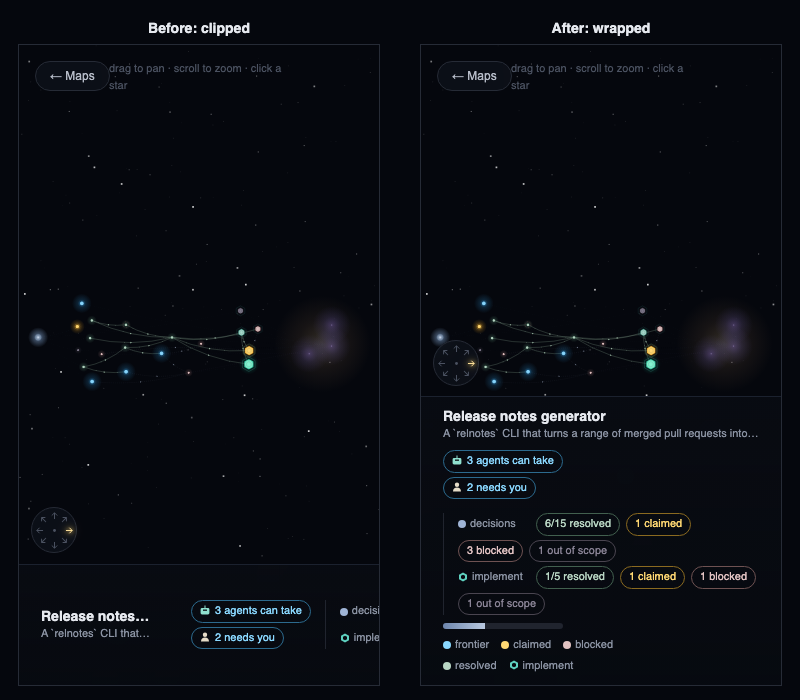
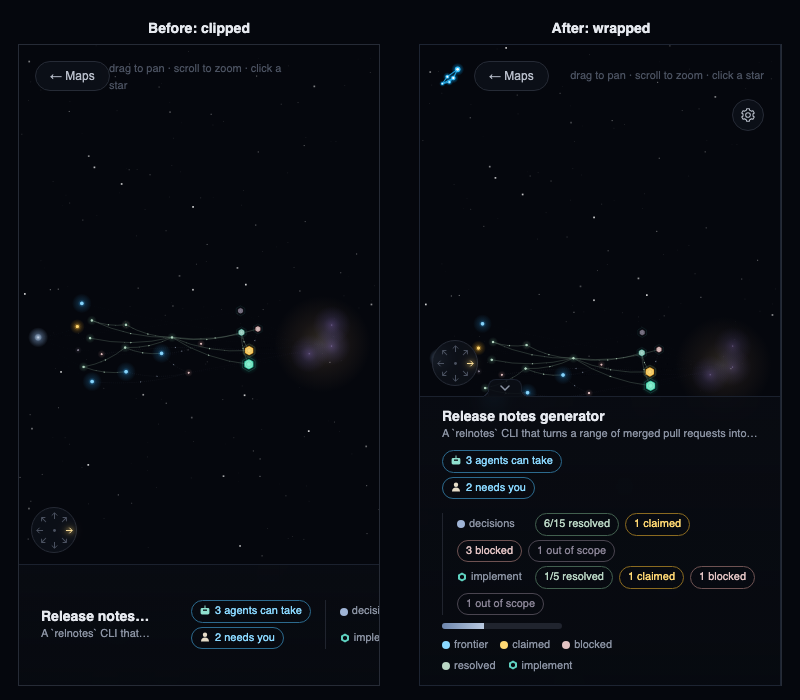
feat(viewer): keep the status bar fold tab next to the compass (v0.15.1) (#58)
Closes #57

diff --git a/cmd/wayfinder-maps/web/style.css b/cmd/wayfinder-maps/web/style.css
@@ -14,21 +14,23 @@ html,body{margin:0;height:100%;overflow:hidden;background:#05070d;
   transition:transform .24s cubic-bezier(.2,.7,.2,1),opacity .24s}
 body.panelopen #hud{transform:translateY(105%);opacity:0;pointer-events:none}
 #hud.folded>:not(.htitle):not(.hudfold){display:none}
-#hud .hudfold{position:absolute;right:16px;top:0;transform:translateY(-100%);width:34px;height:18px;padding:0;
+#hud .hudfold{position:absolute;left:68px;top:0;transform:translateY(-100%);width:34px;height:18px;padding:0;
   display:flex;align-items:center;justify-content:center;cursor:pointer;color:#8b93a3;
   background:rgba(11,14,21,.85);border:1px solid #1b212e;border-bottom:0;border-radius:8px 8px 0 0}
+#hud .hudfold::before,#hud .hudfold::after{content:"";position:absolute;bottom:0;width:8px;height:8px;pointer-events:none}
+#hud .hudfold::before{left:-8px;background:radial-gradient(circle at 0 0,transparent 7px,#1b212e 7px,#1b212e 8px,rgba(11,14,21,.85) 8px)}
+#hud .hudfold::after{right:-8px;background:radial-gradient(circle at 100% 0,transparent 7px,#1b212e 7px,#1b212e 8px,rgba(11,14,21,.85) 8px)}
 #hud .hudfold:hover{color:#e6e9ef}
 #hud .hudfold svg{width:10px;height:6px;fill:none;stroke:currentColor;stroke-width:1.5;stroke-linecap:round;stroke-linejoin:round;transition:transform .2s}
 #hud.folded .hudfold svg{transform:rotate(180deg)}
-/* Folded: the bar becomes a bottom-left corner holding the compass, the title and the toggle. */
+/* The toggle is a tab on the bar's top edge, right of the compass, in both states. Folded: the bar becomes a bottom-left corner holding the compass and the title. */
 body.hudfolded #hud{right:auto;max-width:min(340px,calc(100vw - 24px));min-height:62px;flex-wrap:nowrap;gap:10px;
-  padding:8px 12px 8px 70px;border-right:1px solid #1b212e;border-radius:0 14px 0 0;
+  padding:8px 12px 8px 66px;border-right:1px solid #1b212e;border-radius:0 14px 0 0;
   background:rgba(9,12,19,.82)}
 body.hudfolded #hud .htitle{flex:0 1 auto;min-width:0}
 body.hudfolded #hud .dest{display:none}
 #hud .tshort,body.hudfolded #hud .tfull{display:none}
 body.hudfolded #hud .tshort{display:inline}
-body.hudfolded #hud .hudfold{position:static;transform:none;flex:none;width:24px;height:24px;border:1px solid #1b212e;border-radius:50%}
 body.hudfolded #compass{bottom:8px}
 #hud .htitle{min-width:110px;flex:1 1 180px}
 #hud h1{font-size:14px;font-weight:600;margin:0;line-height:1.25;

diff --git a/docs/features/narrow-screens.md b/docs/features/narrow-screens.md
@@ -10,14 +10,15 @@ The bottom status bar wraps onto extra rows instead of running off the edge, so 
 
 ## Collapsing the status bar
 
-The small arrow on the bar collapses it into a bottom-left corner holding the map title (cut off with "..." after 24 characters) and the compass, so the map gets the full width back.
-The arrow in the corner expands it again, and the choice is remembered.
+The small arrow tab on the bar's top edge, right of the compass, collapses the bar into a bottom-left corner holding the compass and the map title (cut off with "..." after 24 characters), so the map gets the full width back.
+The tab stays beside the compass, on the top edge of the bar or the corner, on wide and narrow screens alike.
+Click it again to expand the bar, and the choice is remembered.
 
 ![The status bar at 360px wide, expanded and collapsed into a corner with the title and compass](../images/hud-fold.png)
 
-![The status bar expanded on a wide screen: title, counts, progress bar and legend along the bottom, with the compass above it](../images/hud-expanded.png)
+![The status bar expanded on a wide screen: title, counts, progress bar and legend along the bottom, with the compass above it and the collapse tab on its top edge beside the compass](../images/hud-expanded.png)
 
-![The status bar collapsed on a wide screen: a bottom-left corner with the map title, the compass beside it and an expand arrow](../images/hud-collapsed.png)
+![The status bar collapsed on a wide screen: a bottom-left corner with the compass and the map title, and the expand tab on its top edge beside the compass](../images/hud-collapsed.png)
 
 ## Top bar
 

diff --git a/docs/features/index.md b/docs/features/index.md
@@ -17,7 +17,7 @@ A map with no implement tickets reads exactly as it does upstream.
 | [Compass](compass.md) | The map flows in any of 8 directions or radially |
 | [Tickets placed by age](age-layout.md) | Later tickets drift toward the goal without stretching the map |
 | [Settings menu](settings.md) | A gear popover for viewer toggles with hover notes, saved across restarts; the first is Freeze nodes, which stops the idle drift of the stars |
-| [Narrow-screen layout](narrow-screens.md) | Wrapping top bar and a status bar that collapses to a corner with the title and compass |
+| [Narrow-screen layout](narrow-screens.md) | Wrapping top bar and a status bar that collapses to a corner, its fold tab always beside the compass |
 | [`pull` in the binary](pull.md) | GitHub-issue maps mirrored into `.plan/`, with account choice and progress |
 | [Refresh button](pull.md#refresh-from-the-viewer) | The same pull from the viewer |
 | [Open from GitHub](open-from-github.md) | Find a map in a repo and open it from the splash, with account choice, no `pull` first |

diff --git a/docs/features/compass.md b/docs/features/compass.md
@@ -2,6 +2,7 @@
 
 A small compass in the bottom left corner points the map any of 8 ways, and the centre button drops the direction for the original radial layout.
 East (left to right) is the default.
+The arrow tab on the bar's top edge, right of the dial, folds and unfolds the [status bar](narrow-screens.md#collapsing-the-status-bar) and stays beside it either way.
 The choice is saved in `settings.json` next to `recents.json` in your user config directory, so it survives restarts.
 
 ![The same map in four layouts: east, south, south-east and radial, with the compass dial in the bottom left highlighting the chosen direction](../images/compass-directions.png)
